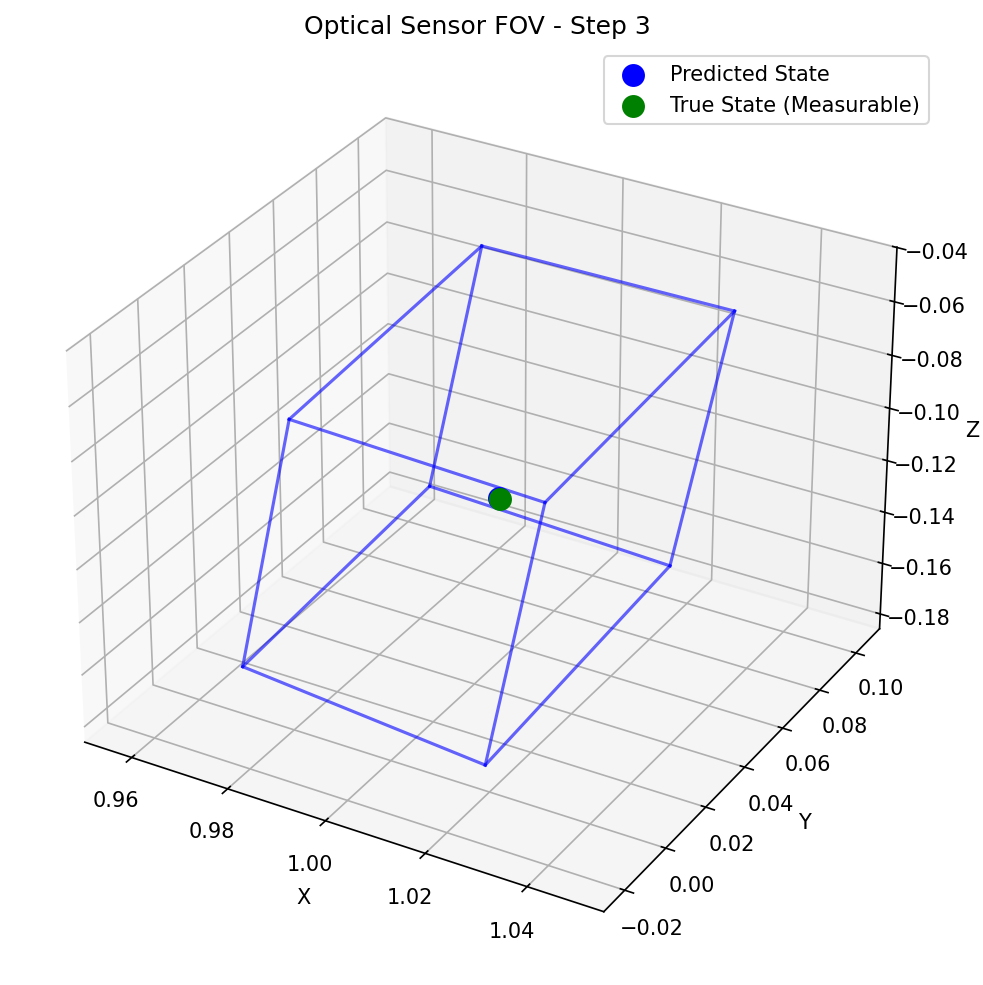
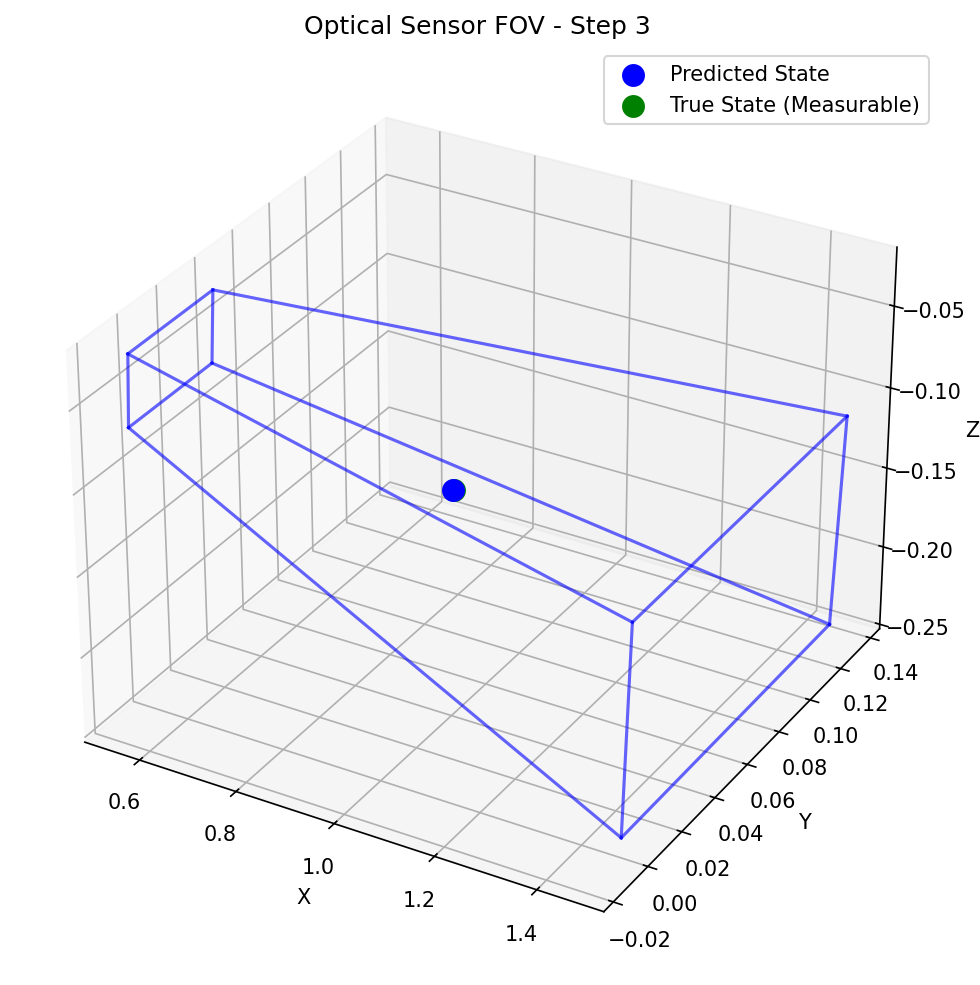
Making float detection more lenient for Beartyping.

diff --git a/examples/filter_loop_windowing.py b/examples/filter_loop_windowing.py
@@ -11,19 +11,24 @@ from xradar_uq.measurement_systems import Radar
 from xradar_uq.stochastic_filters import EnGMF
 
 
-def tracking_measurability(state, predicted_state, elevation_fov=0.1, azimuth_fov=0.1, range_fov=0.05):
+def tracking_measurability(state, predicted_state, elevation_fov=(5 * jnp.pi / 180), azimuth_fov=(5 * jnp.pi / 180), range_fov=1):
+
     rho = np.linalg.norm(state[:3])
     rho_pred = np.linalg.norm(predicted_state[:3])
     elevation = np.arcsin(state[2] / rho)
     elevation_pred = np.arcsin(predicted_state[2] / rho_pred)
     azimuth = np.arctan2(state[1], state[0])
     azimuth_pred = np.arctan2(predicted_state[1], predicted_state[0])
+
+    print(np.abs(elevation - elevation_pred), elevation_fov / 2, np.abs(elevation - elevation_pred) <= elevation_fov / 2)
+    print(np.abs(azimuth - azimuth_pred), azimuth_fov / 2, np.abs(azimuth - azimuth_pred) <= azimuth_fov / 2)
+    print(np.abs(rho - rho_pred), range_fov / 2, np.abs(rho - rho_pred) <= range_fov / 2)
     
     return (np.abs(elevation - elevation_pred) <= elevation_fov / 2 and
             np.abs(azimuth - azimuth_pred) <= azimuth_fov / 2 and
             np.abs(rho - rho_pred) <= range_fov / 2)
 
-def plot_tracking_fov(predicted_state, true_state, step, elevation_fov=0.1, azimuth_fov=0.1, range_fov=0.05):
+def plot_tracking_fov(predicted_state, true_state, step, elevation_fov=(5 * jnp.pi / 180), azimuth_fov=(5 * jnp.pi / 180), range_fov=1.0):
     fig = plt.figure(figsize=(10, 8))
     ax = fig.add_subplot(111, projection='3d')
     
@@ -85,14 +90,96 @@ key, subkey = jax.random.split(key)
 true_state = dynamical_system.initial_state()
 posterior_ensemble = dynamical_system.generate(subkey)
 
+# Real time to CR3BP time conversion
+TU_seconds = 375730  # Time unit in seconds
+TU_days = TU_seconds / (24 * 3600)  # ≈ 4.35 days
+
+def real_time_to_cr3bp(real_seconds):
+    return real_seconds / TU_seconds
+
+def cr3bp_time_to_real(cr3bp_time):
+    return cr3bp_time * TU_seconds
+
+# Examples from the papers:
+print(f"10 minutes real = {real_time_to_cr3bp(10*60):.6f} TU")  # ≈ 0.00160 TU
+print(f"2.5 hours real = {real_time_to_cr3bp(2.5*3600):.6f} TU")  # ≈ 0.024 TU
+print(f"NRHO period 1.3632 TU = {cr3bp_time_to_real(1.3632)/86400:.2f} days")  # ≈ 5.9 days
+
+def generate_measurement_schedule_cr3bp():
+    """Generate measurement times in CR3BP units"""
+    
+    # NRHO period from Document 25
+    orbit_period_tu = 1.3632096570  # TU (about 5.9 real days)
+    
+    # Tracklet parameters (convert to TU)
+    tracklet_duration_tu = real_time_to_cr3bp(2.5 * 3600)  # 2.5 hours → TU
+    measurement_interval_tu = real_time_to_cr3bp(10 * 60)   # 10 minutes → TU
+    gap_duration_tu = orbit_period_tu / 4  # Quarter orbit gap
+    
+    print(f"Tracklet duration: {tracklet_duration_tu:.6f} TU")
+    print(f"Measurement interval: {measurement_interval_tu:.6f} TU") 
+    print(f"Gap between tracklets: {gap_duration_tu:.6f} TU")
+    
+    schedule = []
+    total_time_tu = 5 * orbit_period_tu  # 5 orbits ≈ 30 days
+    
+    current_time = 0
+    while current_time < total_time_tu:
+        # Start tracklet
+        tracklet_end = current_time + tracklet_duration_tu
+        
+        # Measurements every 10 minutes during tracklet
+        while current_time < tracklet_end and current_time < total_time_tu:
+            schedule.append(current_time)
+            current_time += measurement_interval_tu
+            
+        # Gap until next tracklet  
+        current_time = tracklet_end + gap_duration_tu
+    
+    return jnp.array(schedule)
+
+# This gives you measurement times in proper CR3BP units
+measurement_times_tu = generate_measurement_schedule_cr3bp()
+
+def get_optimal_pointing_direction(posterior_ensemble, measurement_system):
+    """
+    Determine optimal sensor pointing direction to maximize information gain
+    """
+    
+    # Method 1: Simple ensemble mean (your current approach)
+    mean_prediction = jnp.mean(posterior_ensemble, axis=0)
+    
+    # Method 2: Fisher Information Gain weighted (from papers)
+    # Point toward direction that maximizes expected information
+    
+    # Compute measurement Jacobian for each ensemble member
+    jacobians = jax.vmap(jax.jacfwd(measurement_system))(posterior_ensemble)
+    ensemble_cov = jnp.cov(posterior_ensemble.T)
+    
+    # Fisher Information Matrix for each pointing direction
+    fisher_info = jax.vmap(lambda H: H.T @ jnp.linalg.inv(measurement_system.covariance) @ H)(jacobians)
+    
+    # Weight ensemble members by their Fisher information
+    weights = jnp.array([jnp.trace(fi @ ensemble_cov) for fi in fisher_info])
+    weights = weights / jnp.sum(weights)
+    
+    # Optimal pointing is Fisher-weighted mean
+    optimal_pointing = jnp.sum(weights[:, None] * posterior_ensemble, axis=0)
+    
+    return optimal_pointing
+
+# Usage in your loop:
+
 
 # We were tracking an object
 for i in range(10):
+    print(i)
     key, update_key, measurement_key = jax.random.split(key, 3)
     true_state = dynamical_system.flow(0.0, 1.0, true_state)
     prior_ensemble = eqx.filter_vmap(dynamical_system.flow)(0.0, 1.0, posterior_ensemble)
     posterior_ensemble = stochastic_filter.update(update_key, prior_ensemble, measurement_system(true_state, measurement_key), measurement_system)
-    predicted_state = jnp.mean(posterior_ensemble, axis=0)
+    # predicted_state = jnp.mean(posterior_ensemble, axis=0)
+    predicted_state = get_optimal_pointing_direction(prior_ensemble, measurement_system)
     plot_tracking_fov(predicted_state, true_state, i)
 
 

diff --git a/examples/dynamical_system.py b/examples/dynamical_system.py
@@ -5,6 +5,8 @@ This file shows how to use the dynamical system objects.
 import equinox as eqx
 import jax.numpy as jnp
 from diffrax import Dopri8, PIDController, SaveAt
+from jaxtyping import Array, Float
+
 from xradar_uq.dynamical_systems import CR3BP
 
 # Next, we can instantiate it with a number of options
@@ -32,14 +34,14 @@ dynamical_system = CR3BP(
 
 # The API of a dynamical system comes from the nomenclature:
 # https://en.wikipedia.org/wiki/Dynamical_system#Formal_definition
+# So we want a trajectory, flow, and orbit of our dynamical system
+# This API also works for discrete systems too, but we won't deal with them here.
 
-# initial_time
-# final_time
-# state: (6,)
+# To integrate a system, we at least need the following:
 
-initial_time = 0.0
-final_time = 10.0
-state = jnp.ones(6)
+initial_time: float = 0.0
+final_time: float = 10.0
+state: Float[Array, "6"] = jnp.ones(6)
 
 # Which means we have the flow through x
 # This is the result of numerical integration after final_time

diff --git a/examples/filter_loop.py b/examples/filter_loop.py
@@ -47,7 +47,7 @@ errors = []
 for _ in range(10):
     key, subkey = jax.random.split(key)
     true_state = dynamical_system.flow(0.0, 1.0, true_state)
-    prior_ensemble = eqx.filter_vmap(dynamical_system.flow)(0.0, 1.0, posterior_ensemble)
+    prior_ensemble = eqx.filter_vmap(dynamical_system.flow, in_axes=(None, None, 0))(0.0, jnp.array(1.0), posterior_ensemble)
     posterior_ensemble = stochastic_filter.update(subkey, prior_ensemble, measurement_system(true_state), measurement_system)
     errors.append(true_state - jnp.mean(posterior_ensemble, axis=0))
 

diff --git a/xradar_uq/dynamical_systems/__init__.py b/xradar_uq/dynamical_systems/__init__.py
@@ -1,9 +1,6 @@
 from xradar_uq.dynamical_systems.dynamical_system_abc import (
     AbstractDynamicalSystem as AbstractDynamicalSystem,
     AbstractContinuousDynamicalSystem as AbstractContinuousDynamicalSystem,
-    AbstractDiscreteDynamicalSystem as AbstractDiscreteDynamicalSystem,
-    AbstractInvertibleDiscreteDynamicalSystem as AbstractInvertibleDiscreteDynamicalSystem,
-    AbstractStochasticDiscreteDynamicalSystem as AbstractStochasticDiscreteDynamicalSystem,
 )
 
 from xradar_uq.dynamical_systems.cr3bp import (
